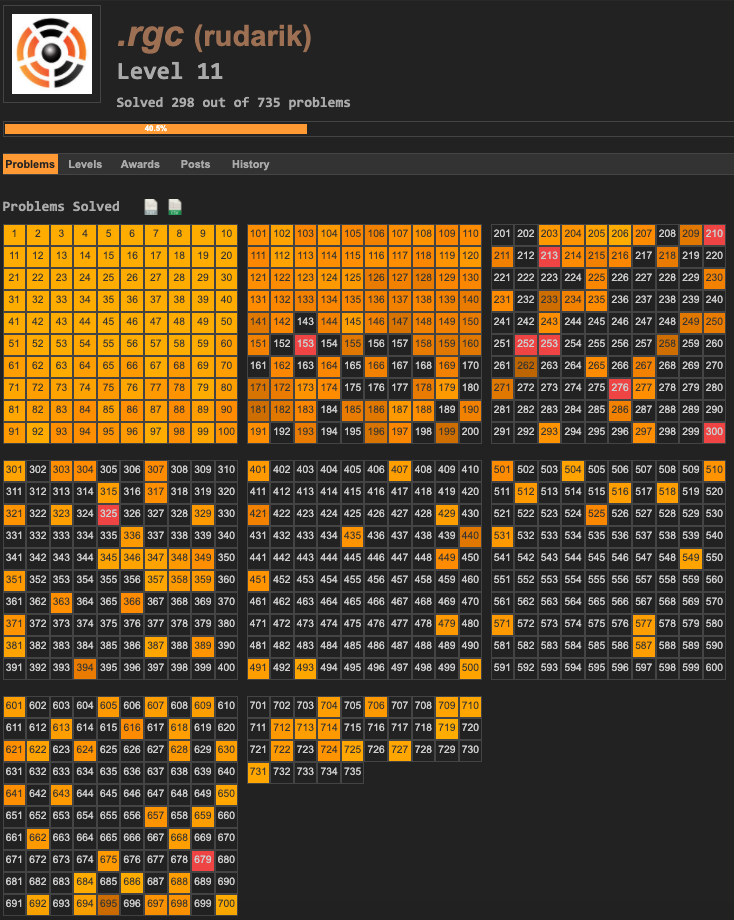
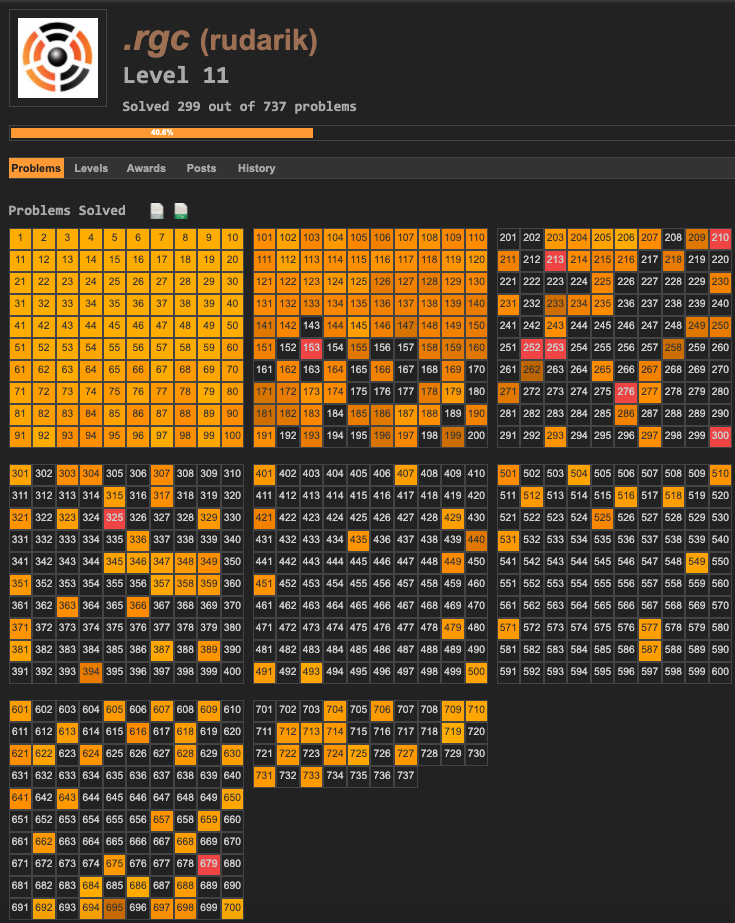
solved 733

diff --git a/README.md b/README.md
@@ -10,217 +10,290 @@ My current progress:
 ![](rudarik_progress.png)
 
 * [Alternating Permutation](https://en.wikipedia.org/wiki/Alternating_permutation)
+
 Problem 709: "Even Stevens"
 
 * [Berlekamp-Massey Algorithm](https://en.wikipedia.org/wiki/Berlekamp%E2%80%93Massey_algorithm)
 
 * [Bernoulli Trial](https://en.wikipedia.org/wiki/Bernoulli_trial)
+
 Problem 267: "Billionaire"
 
 * [Bezier Curve](https://en.wikipedia.org/wiki/B%C3%A9zier_curve)
+
 Problem 363: "Bezier curves"
 
 * [Binary Search](https://en.wikipedia.org/wiki/Binary_search_algorithm)
 
+
 * [Binomial Coefficient](https://en.wikipedia.org/wiki/Binomial_coefficient)
+
 Problem 203: "Squarefree Binomial Coefficients", Problem 158: "Exploring strings for which only one character comes lexicographically after its neighbour to the left", Problem 231: "The prime factorisation of binomial coefficients"
 
 * [Catalan Number](https://en.wikipedia.org/wiki/Catalan_number)
 
+
 * [Coupon Collector's Problem](https://en.wikipedia.org/wiki/Coupon_collector%27s_problem)
+
 Problem 724: "Drone Delivery"
 
 * [Chinese Remainder Theorem](https://en.wikipedia.org/wiki/Chinese_remainder_theorem)
+
 Problem 134: "Prime pair connection", Problem 271: "Modular Cubes, part 1", Problem 451: "Modular inverses", Problem 531: "Chinese leftovers"
 
 * [Cyclic Number](https://en.wikipedia.org/wiki/Cyclic_number)
+
 Problem 358: "Cyclic numbers"
 
 * [Cycloid](https://en.wikipedia.org/wiki/Cycloid)
+
 Problem 525: "Rolling ellipse"
 
 * [Decimal Representation](https://en.wikipedia.org/wiki/Decimal_representation)
+
 Problem 183: "Maximum product of parts"
 
 * [Descartes Theorem](https://en.wikipedia.org/wiki/Descartes%27_theorem)
+
 Problem 199: "Iterative Circle Packing", Problem 510: "Tangent Circles", Problem 727: "Triangle of Circular Arcs"
 
 * [Dijkstra's Algorithm](https://en.wikipedia.org/wiki/Dijkstra%27s_algorithm)
+
 Problem 83: "Path sum, four ways" 
 
 * [Diophantine Equation](https://en.wikipedia.org/wiki/Diophantine_equation)
+
 Problem 100: "Arranged probability"
 
 * [Disjoint-set Data Structure](https://en.wikipedia.org/wiki/Disjoint-set_data_structure)
+
 Problem 186: "Connectedness of a network"
 
 * [Divisibility Rule](https://en.wikipedia.org/wiki/Divisibility_rule)
+
 Problem 491: "Double pandigital number divisible by 11"
 
 * [Divisor Function](https://en.wikipedia.org/wiki/Divisor_function)
+
 Problem 211: "Divisor Square Sum", Problem 429: "Sum of squares of unitary divisors", Problem 501: "Eight Divisors"
 
 * [Dynamic Programming](https://en.wikipedia.org/wiki/Dynamic_programming)
+
 Problem 178: "Step Numbers", Problem 191: "Prize Strings", Problem 249: "Prime Subset Sums", Problem 250: "250250", Problem 329: "Prime Frog", Problem 706: "3-Like Numbers", Problem 215: "Crack-free Walls"
 
 * [Euclidean Algorithm](https://en.wikipedia.org/wiki/Euclidean_algorithm)
+
 Problem 700: "Eulercoin"
 
 * [Euler Numbers](https://en.wikipedia.org/wiki/Euler_number)
 
 * [Faulhaber's Formula](https://en.wikipedia.org/wiki/Faulhaber%27s_formula)
 
+* [Fenwick Tree[(https://en.wikipedia.org/wiki/Fenwick_tree)
+
+Problem 733: "Ascending subsequences"
+
 * [Fibonacci Numbers](https://en.wikipedia.org/wiki/Fibonacci_number)
+
 Problem 2: "Even Fibonacci numbers", Problem 104: "Pandigital Fibonacci ends", Problem 230: "Fibonacci words", Problem 662: "Fibonacci Paths"
 
 * [Gamma Function](https://en.wikipedia.org/wiki/Gamma_function)
 
 * [Generating Function](https://en.wikipedia.org/wiki/Generating_function)
+
 Problem 137: "Fibonacci golden nuggets", Problem 140: "Modified Fibonacci golden nuggets", Problem 618: "Numbers with a given prime factor sum"
 
 * [Geometric Series](https://en.wikipedia.org/wiki/Geometric_series)
+
 Problem 518: "Prime triples and geometric sequences"
 
 * [Heron's Formula](https://en.wikipedia.org/wiki/Heron%27s_formula)
+
 Problem 102: "Triangle containment"
 
 * [Hungarian Algorithm](https://en.wikipedia.org/wiki/Hungarian_algorithm)
+
 Problem 345: "Matrix sum"
 
 * [Inclusion-exclusion Principle](https://en.wikipedia.org/wiki/Inclusion%E2%80%93exclusion_principle)
+
 Problem 657: "Incomplete words"
 
 * [Incomplete gamma function](https://en.wikipedia.org/wiki/Incomplete_gamma_function)
+
 Problem 697: "Randomly Decaying Sequence"
 
 * [Interpolation](https://en.wikipedia.org/wiki/Interpolation)
+
 Problem 101: "Optimum polynomial"
 
 * [Kruskal's Algorithm](https://en.wikipedia.org/wiki/Kruskal%27s_algorithm)
+
 Problem 107: "Minimal network"
 
 * [Lagrange Multiplier](https://en.wikipedia.org/wiki/Lagrange_multiplier)
+
 Problem 190: "Maximising a weighted product"
 
 * [Lambert Series](https://en.wikipedia.org/wiki/Lambert_series)
+
 Problem 722: "Slowly converging series"
 
 * [Langton's Ant](https://en.wikipedia.org/wiki/Langton%27s_ant)
+
 Problem 349: "Langton's Ant"
 
 * [Lucas Number](https://en.wikipedia.org/wiki/Lucas_number)
+
 Problem 209: "Circular Logic"
 
 * [Maximum subarray problem](https://en.wikipedia.org/wiki/Maximum_subarray_problem#Kadane's_algorithm)
+
 Problem 213: "Searching for a maximum-sum subsequence"
 
 * [Memoization](https://en.wikipedia.org/wiki/Memoization)
 
 * [Mobius Function](https://en.wikipedia.org/wiki/M%C3%B6bius_function)
+
 Problem 193: "Squarefree Numbers"
 
 * [Modular Exponentiation](https://en.wikipedia.org/wiki/Modular_exponentiation)
+
 Problem 304: "Primonacci"
 
 * [Multinomial Coefficient](https://en.wikipedia.org/wiki/Multinomial_theorem)
+
 Problem 113: "Non-bouncy numbers"
 
 * [Multiplicative Function](https://en.wikipedia.org/wiki/Multiplicative_function)
+
 Problem 675: "2^w(n)"
 
 * [Nim](https://en.wikipedia.org/wiki/Nim)
+
 Problem 301: "Nim"
 
 * [P-adic order](https://en.wikipedia.org/wiki/P-adic_order)
+
 Problem 712: "Exponent Difference"
 
 * [Partitions](https://en.wikipedia.org/wiki/Partition_(number_theory))
+
 Problem 76: "Counting Summations", Problem 77: "Prime summations", Problem 78: "Coin partitions", Problem 181: "Investigating in how many ways objects of two different colours can be grouped"
 
 * [Pascal's Triangle](https://en.wikipedia.org/wiki/Pascal%27s_triangle)
+
 Proble, 148: "Exploring Pascal's triangle"
 
 * [Pell's Equation](https://en.wikipedia.org/wiki/Pell%27s_equation)
+
 Problem 321: "Swapping Counters"
 
 * [Pick's Theorem](https://en.wikipedia.org/wiki/Pick%27s_theorem)
+
 Problem 504: "Square on the Inside"
 
 * [Primality Test](https://en.wikipedia.org/wiki/Primality_test)
+
 Problem 146: "Investigating a Prime Pattern" 
 
 * [Prime-Counting Function](https://en.wikipedia.org/wiki/Prime-counting_function)
+
 Problem 609: "Pi sequences"
 
 * [Primitive Root Modulo n](https://en.wikipedia.org/wiki/Primitive_root_modulo_n)
+
 Problem 421: "Prime factors of n^15+1"
 
 * [Probability Density Function](https://en.wikipedia.org/wiki/Probability_density_function)
+
 Problem 394: "Eating pie"
 
 * [Pythagorean Triple](https://en.wikipedia.org/wiki/Pythagorean_triple)
+
 Problem 138: "Special isosceles triangles", Problem 139: "Pythagorean tiles", Problem 142: "Perfect Square Collection", Problem 218: "Perfect right-angled triangles"
 
 * [Recurrence Relation](https://en.wikipedia.org/wiki/Recurrence_relation)
+
 Problem 258: "A lagged Fibonacci sequence", Problem 710: "One Million Members", Problem 440: "GCD and Tiling"
 
 * [Refraction](https://en.wikipedia.org/wiki/Refraction)
+
 Problem 607: "Marsh Crossing"
 
 * [Riffle Shuffle](http://mathworld.wolfram.com/RiffleShuffle.html)
+
 Problem 622:  "Riffle Shuffles".
 
 * [RSA](https://en.wikipedia.org/wiki/RSA_(cryptosystem))
+
 Problem 182: "RSA encryption"
 
 * [Sieve of Eratosthenes](https://en.wikipedia.org/wiki/Sieve_of_Eratosthenes)
+
 Problem 196: "Prime triplets"
 
 * [Solid of Revolution](https://en.wikipedia.org/wiki/Solid_of_revolution)
+
 Problem 449: "Chocolate covered candy"
 
 * [Square Pyramidal Number](https://en.wikipedia.org/wiki/Square_pyramidal_number)
+
 Problem 401: "Sum of squares of divisors"
 
 * [Specular Reflection](https://en.wikipedia.org/wiki/Specular_reflection)
+
 Problem 144: "Investigating multiple reflections of a laser beam" 
 
 * [Stirling Numbers of the Second Kind](https://en.wikipedia.org/wiki/Stirling_numbers_of_the_second_kind)
 
+
 * [Stoneham Number](https://en.wikipedia.org/wiki/Stoneham_number)
+
 Problem 731: "A Stoneham Number"
 
 * [Sum of Squares](https://en.wikipedia.org/wiki/Sum_of_two_squares_theorem)
+
 Problem 233: "Lattice points on a circle"
 
 * [Symmetric Polynomial](https://en.wikipedia.org/wiki/Symmetric_polynomial)
 
 * [Tonelli-Shanks Algorithm](https://en.wikipedia.org/wiki/Tonelli%E2%80%93Shanks_algorithm)
+
 Problem 216: "Investigating the primality of numbers of the form 2n^2-1", Problem 659: "Largest prime"
 
 * [Totient Function](https://en.wikipedia.org/wiki/Euler%27s_totient_function)
+
 Problems 69: "Totient maximum", Problem 70: "Totient permutation", Problem 214: "Totient chains", Problem 243: "Resilience", Problem 351: "Hexagonal orchards", Problem 512: "Sums of totients of powers", Problem 516: "5-smooth totients", Problem 643: "2-Friendly"
 
 * [Trailing Zero](https://en.wikipedia.org/wiki/Trailing_zero)
+
 Problem 160: "Factorial trailing digits"
 
 * [Turan graph](https://en.wikipedia.org/wiki/Tur%C3%A1n_graph)
+
 Problem 713: "Turan's water heating system"
 
 * [Random Sums of Random Variables](http://www.math.unl.edu/~sdunbar1/ProbabilityTheory/Lessons/Conditionals/RandomSums/randsum.shtml)
+
 Problem 389: "Platonic Dice"
 
 * [Recurrence Relation](https://en.wikipedia.org/wiki/Recurrence_relation)
+
 Problem 435: "Polynomials of Fibonacci numbers"
 
 * [Recursion](https://en.wikipedia.org/wiki/Recursion_(computer_science))
+
 Problem 118: "Pandigital prime sets", Problem 265: "Binary Circles"
 
 * [Repunit](https://en.wikipedia.org/wiki/Repunit)
+
 Problem 129: "Repunit divisibility", Problem 130: "Composites with prime repunit property", Problem 132: "Large repunit factors", Problem 132 "Repunit nonfactors"
 
 * [Vieta's Formulas](https://en.wikipedia.org/wiki/Vieta%27s_formulas)
+
 Problem 479: "Roots on the Rise"
 
 * [Zeckendorf's Theorem](https://en.wikipedia.org/wiki/Zeckendorf%27s_theorem)
+
 Problem 297: "Zeckendorf Representation", Problem 366: "Stone Game III"
